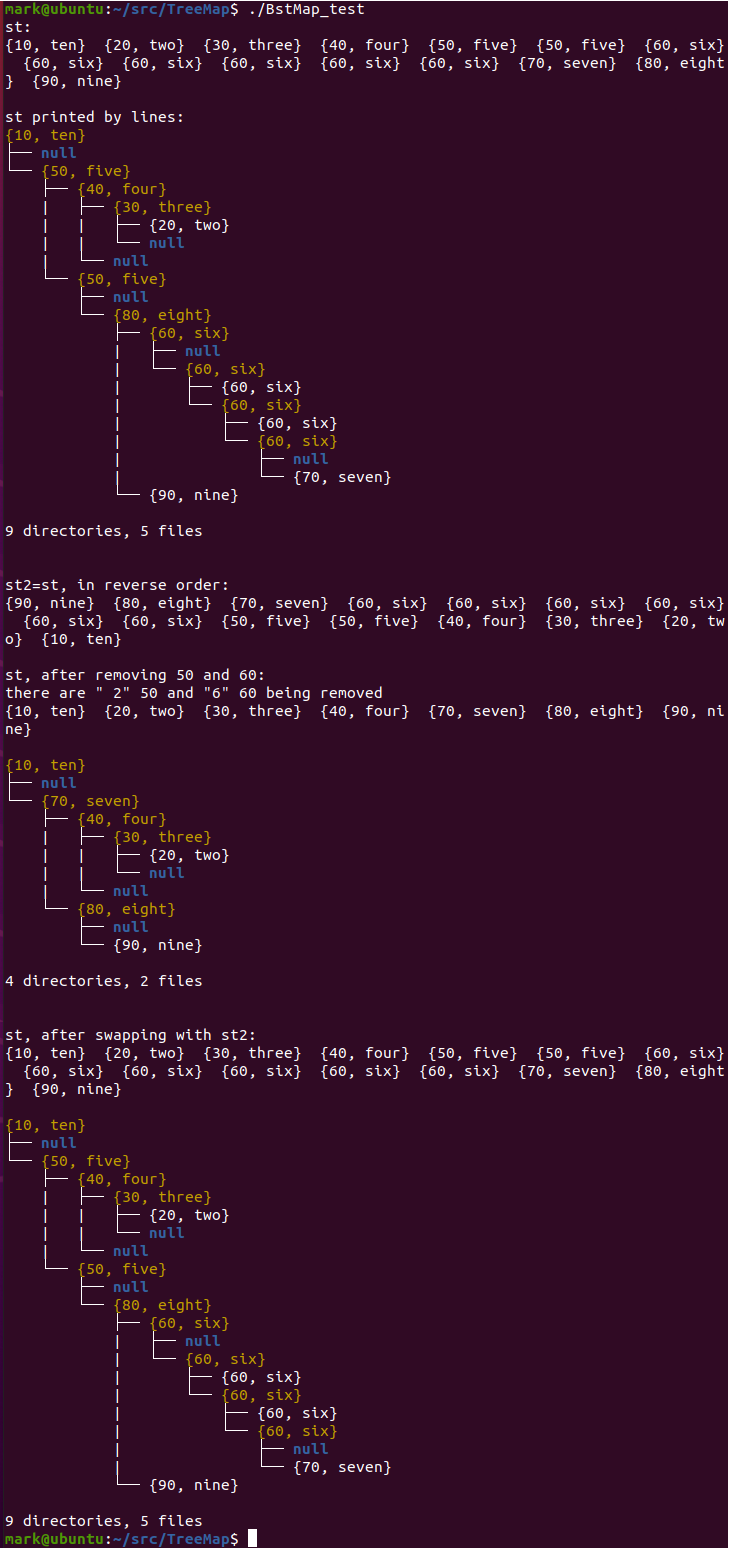
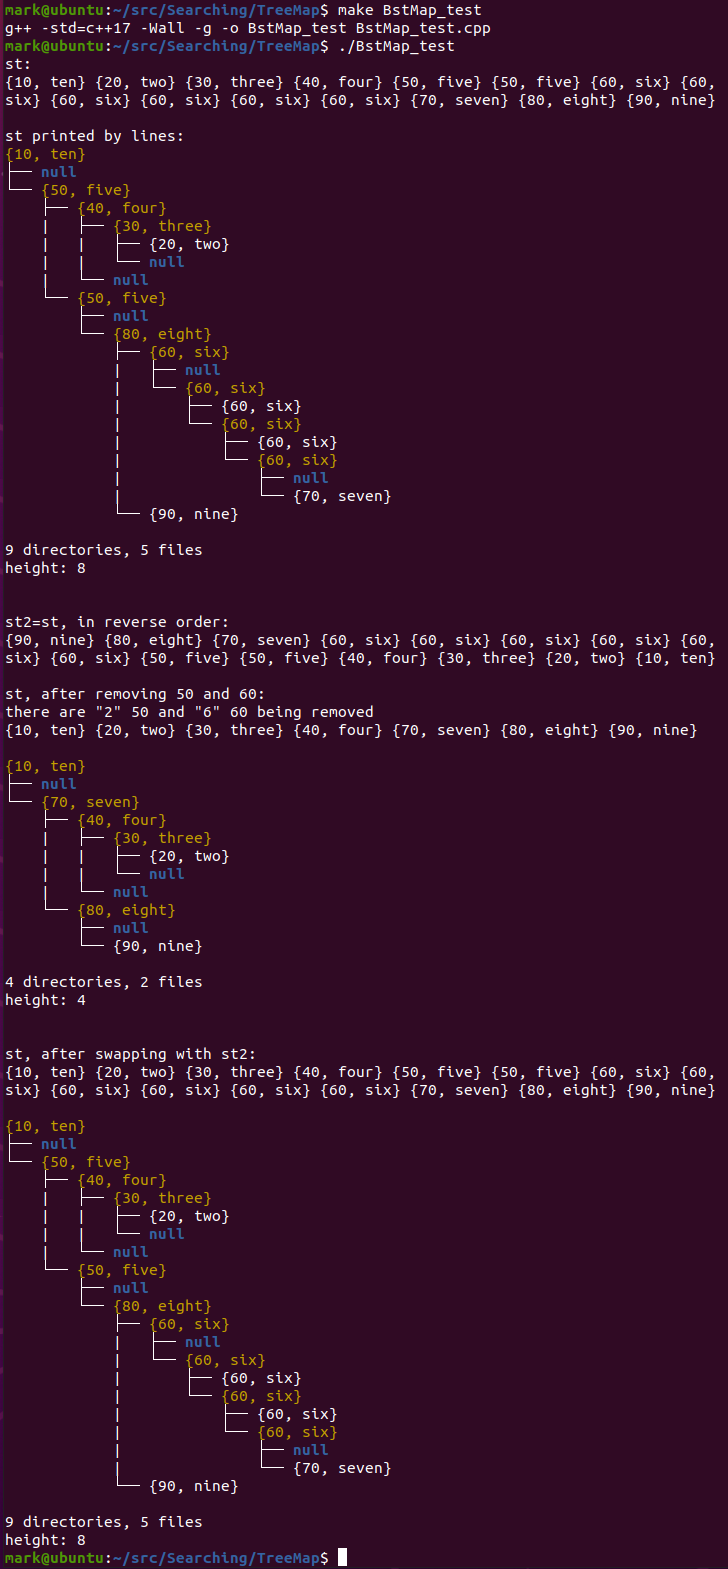
Add tree height interface

Changed region(s): [[0.0, 0.0, 1.0, 1.0], [0.0, 0.0, 0.8462, 0.3411], [0.272, 0.3101, 0.3324, 0.3411]]

diff --git a/Searching/TreeMap/BstMap_test.cpp b/Searching/TreeMap/BstMap_test.cpp
@@ -19,16 +19,8 @@ int main()
 	//using BST = BstMap<int, string, less<int>>;
 	using BST = BstMultimap<int, string, less<int>>;
 	try {
-		BST st;
-		st.insert(10, "ten");
-		st.insert(50, "five");
-		st.insert(80, "eight");
-		st.insert(40, "four");
-		st.insert(30, "three");
-		st.insert(90, "nine");
-		st.insert(60, "six");
-		st.insert(20, "two");
-		st.insert(70, "seven");
+		BST st = { {10, "ten"}, {50, "five"}, {80, "eight"}, {40, "four"},
+			{30, "three"}, {90, "nine"}, {60, "six"}, {20, "two"}, {70, "seven"} };
 		
 		// insert duplicates
 		st.insert(50, "five");
@@ -41,9 +33,11 @@ int main()
 		//st.insert_or_assign(60, "six * six");
 		//st[60] = "six * six";
 
-		print_map("st:\n", st);		
+		print_map("st:\n", st);
+
 		cout << "\n\nst printed by lines: \n";
 		st.print();
+		cout << "height: " << st.height() << '\n';
 
 		BST st2 = st;
 		cout << "\n\nst2=st, in reverse order:\n";
@@ -53,21 +47,24 @@ int main()
 
 		size_t count1 = st.erase(50);
 		size_t count2 = st.erase(60);
-		cout << "\n\nst, after removing 50 and 60: \n" << "there are \" "
+		cout << "\n\nst, after removing 50 and 60: \n" << "there are \""
 			<< count1 << "\" 50 and \"" << count2 << "\" 60 being removed\n";
 
 		print_map("", st);
 		cout << "\n\n";
 		st.print();
+		cout << "height: " << st.height() << '\n';
 
 		swap(st, st2);
 		print_map("\n\nst, after swapping with st2: \n", st);
 		cout << "\n\n";
 		st.print();
+		cout << "height: " << st.height() << '\n';
 
-		print_map("\n\nst2, after swapping with st: \n", st2);
+		/*print_map("\n\nst2, after swapping with st: \n", st2);
 		cout << "\n\n";
 		st2.print();
+		cout << "height: " << st2.height() << '\n';*/
 	}
 	catch (const exception& e) {
 		cout << e.what() << endl;

diff --git a/Searching/TreeMap/BstSet_test.cpp b/Searching/TreeMap/BstSet_test.cpp
@@ -9,16 +9,7 @@ int main()
 	//using BST = BstSet<int, less<int>>;
 	using BST = BstMultiset<int, less<int>>;
 	try {
-		BST st;
-		st.insert(10);
-		st.insert(50);
-		st.insert(80);
-		st.insert(40);
-		st.insert(30);
-		st.insert(90);
-		st.insert(60);
-		st.insert(20);
-		st.insert(70);
+		BST st = { 10,50,80,40,30,90,60,20,70 };
 
 		// insert duplicates 
 		st.insert(50);
@@ -28,12 +19,13 @@ int main()
 		st.insert(60);
 		st.insert(60);
 
-		cout << "st:\n"; 
+		cout << "st:\n";
 		for (auto it : st) {
 			cout << it << "  ";
 		}
-		cout << "\n\nst printed by lines: \n";
+		cout << "\n\nst printed by lines:\n";
 		st.print();
+		cout << "height: " << st.height() << '\n';
 
 		BST st2 = st;
 		cout << "\n\nst2=st, in reverse order:\n";
@@ -43,7 +35,7 @@ int main()
 
 		size_t count1 = st.erase(50);
 		size_t count2 = st.erase(60);
-		cout << "\n\nst, after removing 50 and 60: \n" << "there are \" "
+		cout << "\n\nst, after removing 50 and 60: \n" << "there are \""
 			<< count1 << "\" 50 and \"" << count2 << "\" 60 being removed\n";
 
 		for (auto it : st) {
@@ -51,6 +43,7 @@ int main()
 		}
 		cout << "\n\n";
 		st.print();
+		cout << "height: " << st.height() << '\n';
 
 		swap(st, st2);
 		cout << "\n\nst, after swapping with st2: \n";
@@ -59,13 +52,15 @@ int main()
 		}
 		cout << "\n\n";
 		st.print();
+		cout << "height: " << st.height() << '\n';
 
 		/*cout << "\n\nst2, after swapping with st: \n";
 		for (auto it : st2) {
 			cout << it << "  ";
 		}
 		cout << "\n\n";
-		st2.print();*/
+		st2.print();
+		cout << "height: " << st2.height() << '\n';*/
 	}
 	catch (const exception& e) {
 		cout << e.what() << endl;

diff --git a/Searching/TreeMap/BST_impl.h b/Searching/TreeMap/BST_impl.h
@@ -332,6 +332,30 @@ public:
     // print in a tree structure
     void print(size_t level = 10) const { print(ROOT, level); }
 
+    /* tree height interface */
+
+    // tree height (height of root),  i.e. the number of
+    // edges on the longest path from root node to a leaf
+    int height() const {
+        if (empty()) return -1; // -1 suggests it's empty
+        return height(ROOT) - 1;
+    }
+
+    int height(const_iterator pos) const {
+        if (pos == end()) return -1;
+        return height(pos.ptr()) - 1;
+    }
+
+private:
+    static int height(node_ptr x) {
+        if (x == nullptr) return 0;
+        return 1 + max(height(x->_left), height(x->_right));
+    }
+
+    static int max(size_t a, size_t b) noexcept {
+        return a > b ? a : b;
+    }
+
 private:
     // When using greater<T> (operator>) for comp, the
     // leftmost node is on the contrary the largest.
